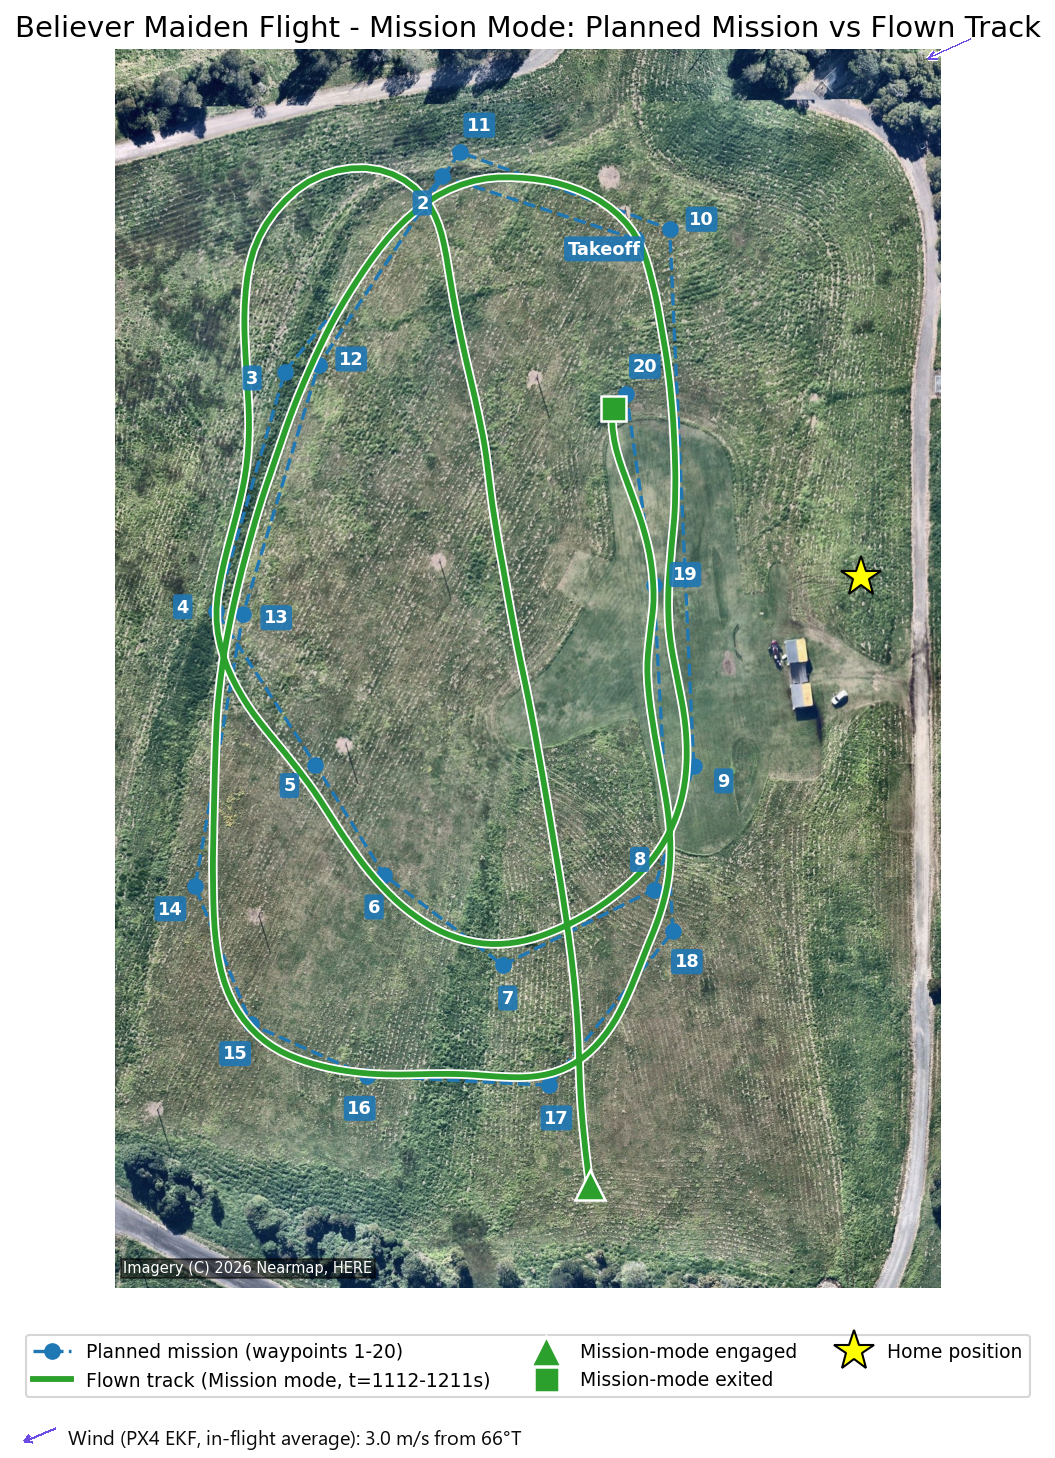
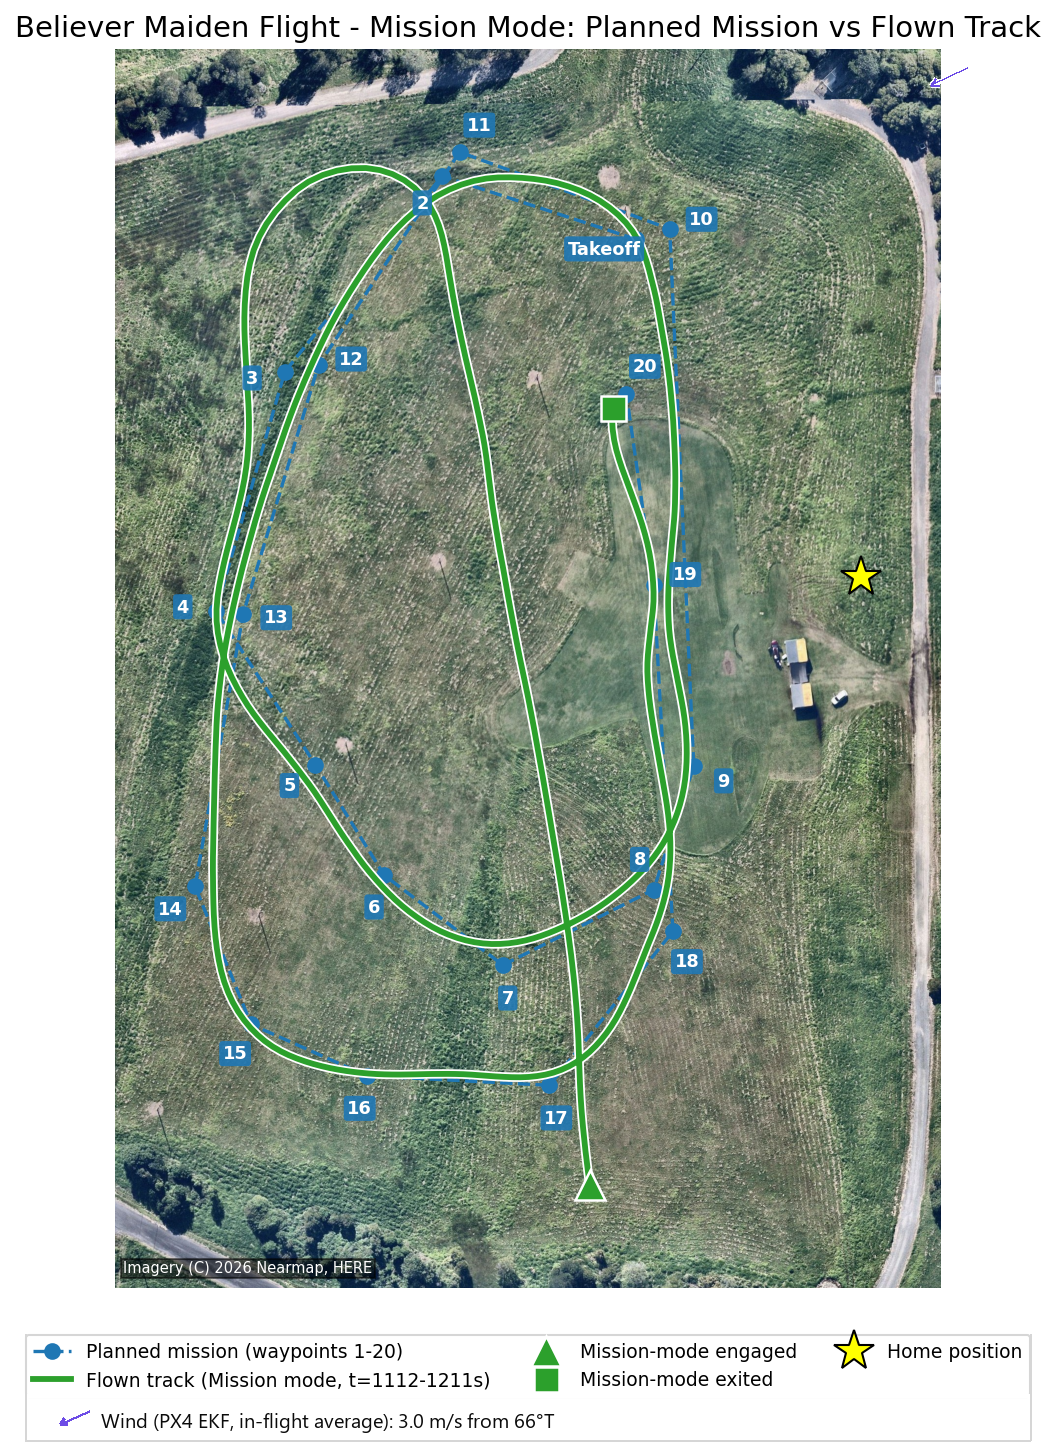
Add a regional wind comparison and fix the mission-mode plot's wind annotation
Per Julian, two things:

1. Compared the maiden flight's EKF wind estimate (2.96 m/s from
   066 deg T) against Open-Meteo's historical reanalysis archive at
   the flight's own recorded home position - no site anemometer
   reading exists. Result: 1.30 m/s from 016 deg T, gusting 5.20 m/s
   at 09:00 local. A real discrepancy, not a confirmation, partly
   explained (grid point ~5.2km from the field, 10m reference height
   vs. flight altitude, hourly resolution is the floor for this data -
   checked and no finer source was available for this date) but the
   direction gap stays open. Documented in the test report and
   open-items, framed as a regional model comparison, not ground
   truth - a real anemometer reading is still the open ask.

2. Fixed two problems with the plot annotation itself, both Julian's
   catch: the arrow was straddling the white title margin instead of
   sitting inside the photo, and the new legend row sat outside the
   existing legend's bordered box instead of inside it. Measured the
   border's exact position and colour and redrew it to properly
   encompass the new row.

diff --git a/AI-context/CHANGELOG.md b/AI-context/CHANGELOG.md
@@ -3,6 +3,8 @@
 All notable changes to the Believer project repo are logged here, most recent first.
 
 ## 2026-10-15
+- Compared the maiden flight's EKF wind estimate against Open-Meteo's historical reanalysis archive, per Julian (no site anemometer reading exists). Queried at the flight's own recorded home position, 2026-10-11 09:00 local: 1.30 m/s from 016°T, gusting 5.20 m/s - a real discrepancy against the EKF's 2.96 m/s from 066°T, not a confirmation. Partly explained (reanalysis grid point ~5.2km from the field; 10m reference height vs. the aircraft's flight altitude; the gust figure sits much closer to the EKF average than the base wind speed does, consistent with genuinely gusty conditions) but the direction gap stays open. Checked for finer-than-hourly resolution (a 15-minute parameter, a named higher-res model) - neither returned data for this historical date, so hourly is the practical floor. Documented in `docs/engineering/test-reports/2026-10-11-maiden-flight.md` and updated the matching `AI-context/open-items.md` item to record this as a regional-model comparison, not ground truth, with a real anemometer reading still the open ask.
+- Fixed two problems with the wind-vector annotation on `docs/assets/test-plots/mission-mode-planned-vs-actual-2026-10-11.png`, per Julian's catch: the arrow was straddling the white title margin rather than sitting fully inside the photo (moved it down, clear of the boundary), and the new legend row sat outside the existing legend's bordered box rather than inside it (measured the border's exact position/colour and redrew it to encompass the new row, rather than leaving a separate unbordered strip below).
 - Reworked the wind-vector annotation on `docs/assets/test-plots/mission-mode-planned-vs-actual-2026-10-11.png`, per Julian - shrank it to a small direction icon so it doesn't clutter the aerial imagery, and moved the speed/direction text into a new row extending the plot's existing legend instead of a floating label on the photo. Caught and fixed a mistake of my own along the way: `git checkout` restores to HEAD, and the previous commit had already landed the first (cluttered) version there, so the first restore attempt silently brought that back rather than the true pre-annotation original - had to restore from the specific earlier commit (`f026255`) that actually predates any wind annotation instead.
 - Added the PX4 EKF's in-flight-averaged wind estimate (2.96 m/s from 066°T) as an arrow annotation on `docs/assets/test-plots/mission-mode-planned-vs-actual-2026-10-11.png`, per Julian. Checked his hypothesis that the estimate gets more accurate as the flight progresses against the EKF's own variance fields first - it doesn't hold up cleanly: variance doesn't converge much over the flight, and the per-sample direction estimate swings over 100° across different portions of it, so there's no strong basis for trusting the end of the flight over any other window. Used a proper vector average (component-wise, not an average of angles) instead. Also corrected the averaging window on Julian's catch: the raw wind estimate is exactly zero during the pre-launch ground-holding period (the estimator isn't meaningfully running while stationary, not biased noise) - excluded ground time before takeoff-detected and after landing-detected, though in this case it barely moved the number (2.90 to 2.96 m/s). Added a cross-reference note to `docs/engineering/test-reports/2026-10-11-maiden-flight.md`'s Mission mode section, and a new `AI-context/open-items.md` item for cross-checking this estimate against an independent ground wind measurement, which doesn't exist in the repo yet.
 - Added a GPS-speed-vs-airspeed cross-check to `docs/engineering/test-reports/2026-10-11-maiden-flight.md` (new section, after "Airspeed validator latched invalid"), per Julian: GPS speed (3D groundspeed magnitude from `vehicle_gps_position`) runs systematically above the raw-sensor indicated airspeed, mean +4.53 m/s (std 2.81) - confirmed as wind, not a fault, by cross-checking against PX4's own independent wind estimate (`airspeed_wind`, actively updating throughout the flight, mean 3.88 m/s, same ballpark). The heading trace also showed the aircraft spent most of the flight in sustained circular flight (consistent with the known `NAV_LOITER_RAD` = 50m loiter configuration), which is favourable for the EKF's wind observability. Confirmed precisely, from the log's own `commander` messages, that the near-zero stretch at the start of the plot is the handler holding the aircraft before the throw: armed at t=0.11s, `Takeoff detected` at t=32.73s (matching the existing Launch section's t=32.6s). Added the supporting static plot (`docs/assets/test-plots/maiden-flight-gps-vs-airspeed-2026-10-11.png`) and a self-contained, fully offline interactive version of the same chart (`.html`, Plotly, zoom/hover, embedded data and library - no external hosting) alongside it. An earlier attempt published this as an externally-hosted claude.ai artifact; Julian flagged that hosting location as inappropriate for this repo (not the use of HTML itself), so it was deleted and rebuilt as a local, git-tracked file instead. Caught and fixed a real bug along the way: `log.start_timestamp` isn't guaranteed to be at or before every topic's first sample (the GPS topic's first sample here predated it by ~0.1ms), and subtracting it from a `uint64` timestamp array that starts earlier wraps around silently - broke `np.interp`'s monotonicity assumption and produced a nonsense first-pass result (-13 m/s mean difference instead of the correct +4.53 m/s). Fixed by using the true minimum timestamp across the topics actually in use, with a monotonicity assertion as a guard.

diff --git a/docs/engineering/test-reports/2026-10-11-maiden-flight.md b/docs/engineering/test-reports/2026-10-11-maiden-flight.md
@@ -173,7 +173,9 @@ No control surface (`MAIN1`/`MAIN2` V-tail, `MAIN3`/`MAIN5` ailerons) was pegged
 
 The flown track (green) tracks the real mission (blue) closely - mean deviation 17.7m, well within normal fixed-wing turn/overshoot tolerance. The long diagonal leg from the "Mission-mode engaged" marker (bottom) up to the pattern is expected PX4 behaviour, not an anomaly: the aircraft was already airborne and physically near waypoints 15-17 when Mission mode was engaged, and PX4 resumed at waypoint 2 (the first real waypoint after Takeoff) rather than restarting from the ground - so it had to transit across the pattern to reach it first.
 
-The arrow annotated on the plot is the PX4 EKF's own wind estimate (`airspeed_wind`), vector-averaged over the in-flight period only (takeoff detected to landing detected - ground time before and after excluded, since the estimator isn't meaningfully observing wind while stationary): **2.96 m/s from 066°T**. See the GPS speed vs. raw-sensor airspeed cross-check above for the full method and the caveat that the underlying per-sample estimate wanders in direction over the flight (not a single stationary value) - this is a time-averaged simplification, not an instant-by-instant true wind. Not yet cross-checked against an independent ground measurement (e.g. a site anemometer) - see `AI-context/open-items.md`.
+The arrow annotated on the plot is the PX4 EKF's own wind estimate (`airspeed_wind`), vector-averaged over the in-flight period only (takeoff detected to landing detected - ground time before and after excluded, since the estimator isn't meaningfully observing wind while stationary): **2.96 m/s from 066°T**. See the GPS speed vs. raw-sensor airspeed cross-check above for the full method and the caveat that the underlying per-sample estimate wanders in direction over the flight (not a single stationary value) - this is a time-averaged simplification, not an instant-by-instant true wind.
+
+**Independent comparison (regional, not ground truth):** no site anemometer reading exists for this flight. Queried Open-Meteo's historical weather archive (a model/reanalysis dataset, not a station measurement) at the flight's own recorded home position (-27.3365, 153.0362) for 2026-10-11 09:00 local (the flight ran 09:02-09:27) - returned 10m wind of **1.30 m/s from 016°T, gusting to 5.20 m/s**. This is a real discrepancy against the EKF figure, not a confirmation: roughly half the speed and about 50° off in direction. Two things make it a weak comparison rather than a contradiction: the reanalysis grid point is centred about **5.2 km from the actual field**, and its figure is at 10m reference height against the aircraft's 0-112m AGL flight - wind typically increases with height, so some of the gap is expected. The gust figure (5.20 m/s) sits much closer to the EKF's average than the base wind speed does, consistent with the EKF's own direction estimate wandering noticeably over the flight rather than holding steady - genuinely gusty, variable conditions that morning. Hourly resolution is the floor for this data source; no sub-hourly reading was available to check against the 25-minute flight window more precisely. The direction gap is not explained by any of the above and remains open. See `AI-context/open-items.md`.
 
 This is a more significant correction than just altitude, and the repo's mission backup, the test plan's Section 5, and anything else describing the old 32-item/40m mission are now known to be stale. Not yet corrected - flagged in `AI-context/open-items.md` pending a decision on how to regenerate `maiden-mission.plan` from this validated data.
 

diff --git a/AI-context/open-items.md b/AI-context/open-items.md
@@ -48,4 +48,4 @@ Information gaps still to confirm with the user. Resolved items (Telem_1 protoco
 - [ ] Right motor has a bad bearing, found during post-flight inspection (2026-10-11) - needs replacing/rectifying before the next flight. Unknown how long it had been degraded or whether it affected the maiden flight's thrust balance
 - [ ] Maiden flight (2026-10-11): Stabilized mode felt "less punchy" on throttle to the pilot than Manual/Acro. Confirmed from the log that the throttle signal path itself is identical across all three modes (same linear stick-to-motor-command mapping) - the likely explanation is the attitude controller damping out thrust-coupling disturbance rather than anything throttle-specific, but this is inference, not a separately measured confirmation. See `docs/engineering/test-reports/2026-10-11-maiden-flight.md`
 - [ ] The mission was replanned at the field on 2026-10-11 and `docs/operations/backups/Pixhawk Mission Backup/maiden-mission.plan` (and the test plan's Section 5 description - 32 items, 40m altitude, no landing item) are now confirmed stale: the real onboard mission (recovered and validated from the Pixhawk's `dataman` file, see `docs/engineering/test-reports/2026-10-11-maiden-flight.md`) has 28 items, 50m relative altitude, and an actual landing sequence (DO_LAND_START, Loiter-to-Alt, Land). Need a decision on regenerating `maiden-mission.plan` (and the geofence backup, same dataman method) from this validated data and propagating the correction through the test plan and parameter-change-log
-- [ ] Maiden flight (2026-10-11): the PX4 EKF wind estimate (2.96 m/s from 066°T, in-flight vector average - see the GPS speed vs. airspeed cross-check in `docs/engineering/test-reports/2026-10-11-maiden-flight.md`) has not been cross-checked against any independent ground measurement (e.g. a handheld anemometer at BNEMAC on the day, or the nearest BOM station's historical observation for that date/time). Julian to confirm whether any such reading exists; if not, worth bringing a handheld anemometer to the next flight specifically to validate this estimation method
+- [ ] Maiden flight (2026-10-11): the PX4 EKF wind estimate (2.96 m/s from 066°T, in-flight vector average - see `docs/engineering/test-reports/2026-10-11-maiden-flight.md`) has no site ground-truth to check against. Compared it to Open-Meteo's historical reanalysis for the field's coordinates (1.30 m/s from 016°T at 09:00, gusting 5.20 m/s) - a real discrepancy in both speed and direction, only partly explained (grid point ~5.2km from the field, 10m reference height vs. flight altitude, hourly resolution). This is a regional model estimate, not a measurement, so it doesn't settle the question either way. Still worth a real ground-truth reading: bring a handheld anemometer to the next flight, or check whether BNEMAC/any club member logs site conditions
